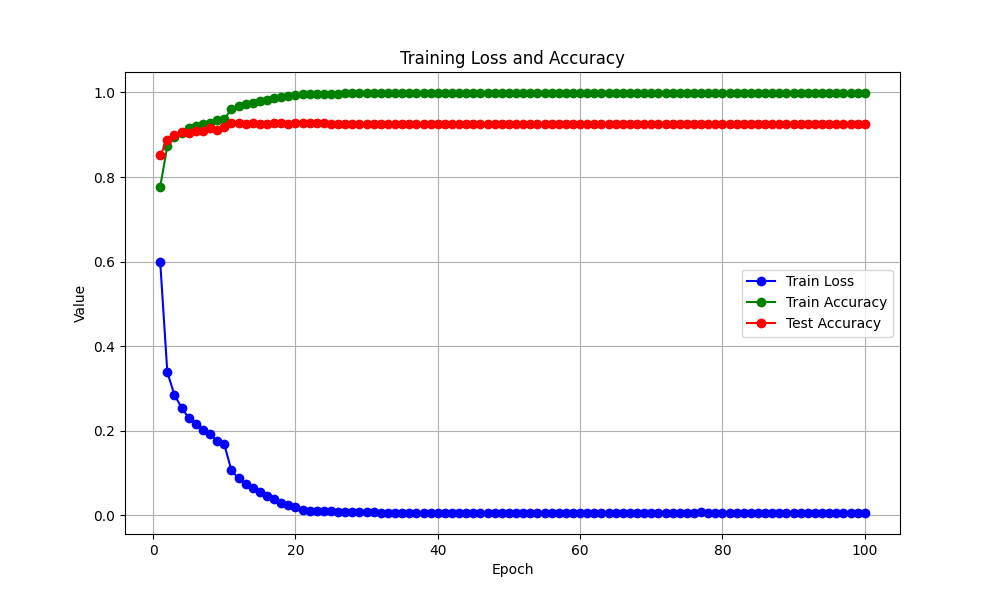
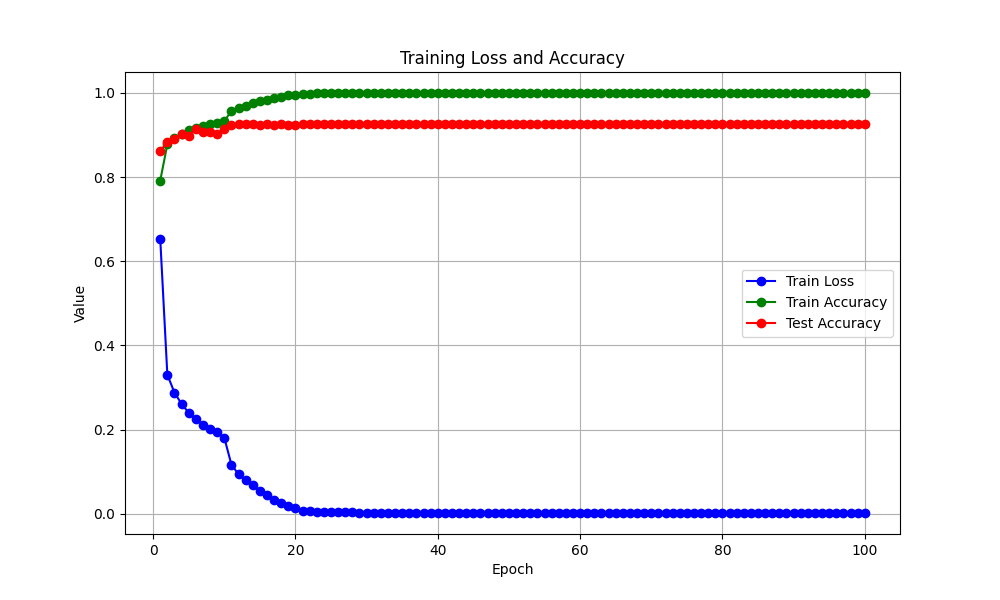
Update better result on AlexNet

diff --git a/AlexNet-better.py b/AlexNet-better.py
@@ -36,7 +36,7 @@ def train_AlexNet(net, train_iter, test_iter, num_epochs, lr, device='cuda'):
     # 初始化权重
     def init_weights(m):
         if type(m) == nn.Linear or type(m) == nn.Conv2d:
-            nn.init.xavier_uniform_(m.weight)
+            nn.init.kaiming_uniform_(m.weight)
     net.apply(init_weights)
     
     print('Training on', device)
